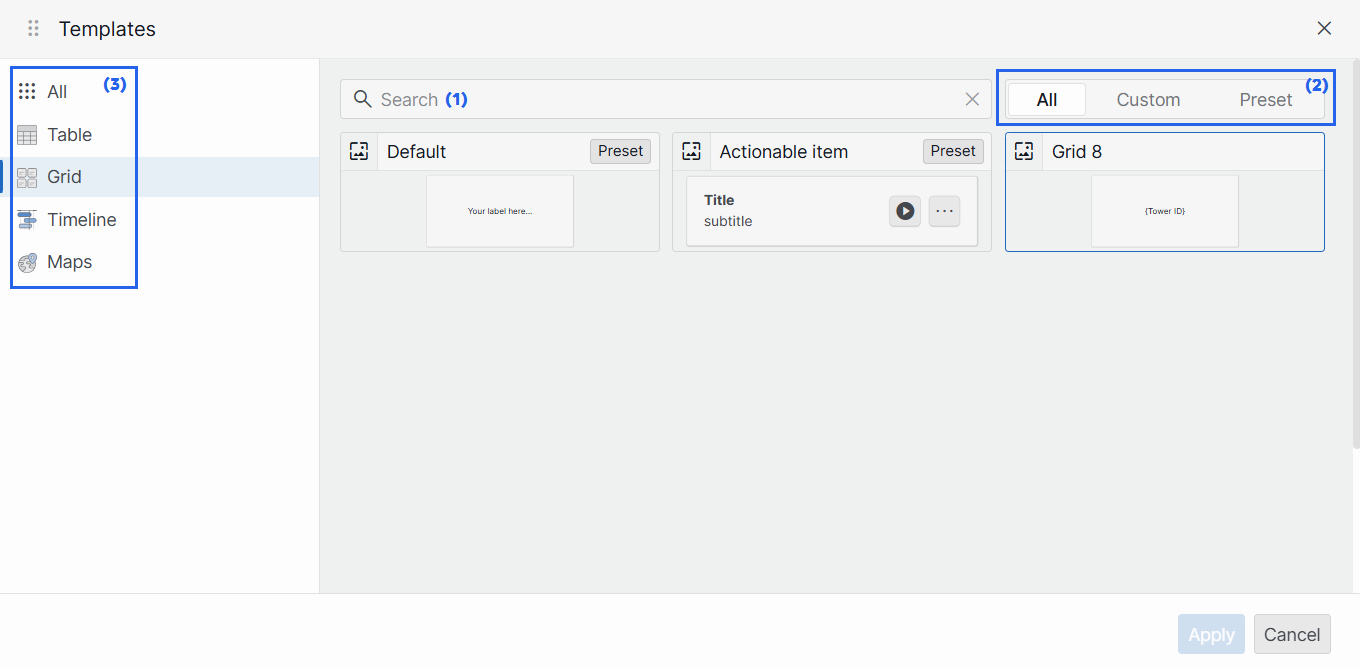
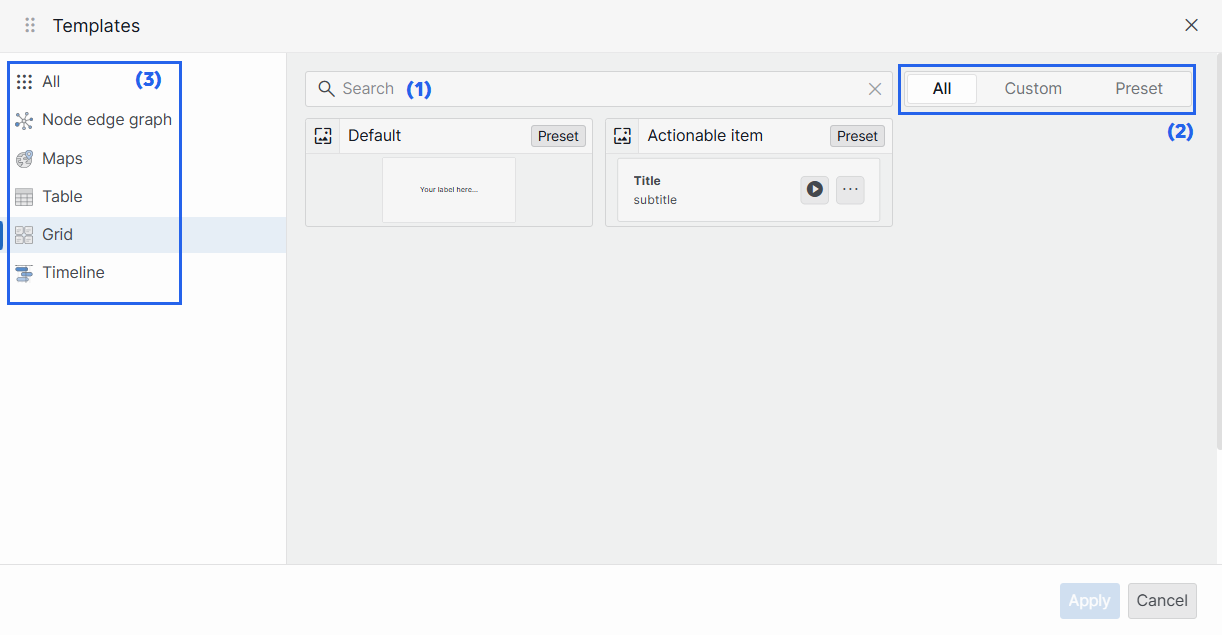
RN 44809

diff --git a/dataminer/Functions/Dashboards_and_Low_Code_Apps/Visualizations/Available_visualizations/Other/Node_edge_graph.md b/dataminer/Functions/Dashboards_and_Low_Code_Apps/Visualizations/Available_visualizations/Other/Node_edge_graph.md
@@ -185,12 +185,12 @@ The node edge graph component supports showing multiple layers. The following *I
 | Nodes | Base node | Node name | This name is not displayed in the component itself, and is only intended to clarify the configuration. |
 | Nodes | Base node | Label | Select the column to use as the label for the node. |
 | Nodes | Base node | Shape | Select a different shape in the dropdown box to customize the node shape. By default, no shape is used. You can also select *Custom* in the dropdown box in order to get additional options that allow you to create a fully customized shape instead of one of the available presets. Click the circle to the right of the dropdown box to select a custom color for the shape. |
-| Nodes | Base node | Visual | Available from DataMiner 10.3.0 [CU15]/10.4.0 [CU3]/10.4.6 onwards<!--RN 39417-->. Choose whether to show an icon or custom image within the node shape. |
+| Nodes | Base node | Visual | Available from DataMiner 10.3.0 [CU15]/10.4.0 [CU3]/10.4.6 onwards<!--RN 39417-->. Choose whether to show an icon, custom image, or use the Template Editor. See [Customizing nodes](#customizing-nodes). |
 | Nodes | Base node | Icon | Select a different icon from the dropdown box to customize the icon shown within the node shape. Click the circle to the right of the box to select a custom color. From DataMiner 10.3.0 [CU15]/10.4.0 [CU3]/10.4.6 onwards<!--RN 39417-->, this setting is only available if the *Visual* setting is set to *Icon*. |
 | Nodes | Base node | Image | Only available if the *Visual* setting is set to *Image*. Enter a custom image link. |
 | Nodes | Base node | Size | From DataMiner 10.3.0 [CU15]/10.4.0 [CU3]/10.4.6 onwards<!--RN 39417-->, use the slider to adjust the size of the node, with a minimum of 1 px and a maximum of 100 px (default: 48 px). Prior to DataMiner 10.3.0 [CU15]/10.4.0 [CU3]/10.4.6, select whether the node should be small, medium-sized, or large. |
 | Nodes | Base node | Weight | A number indicating the relative importance of the node. The higher the number, the more important the node, which determines where it is displayed in the graph (depending on the layout settings). |
-| Nodes | Base node | Enable tooltip | Available from DataMiner 10.3.0 [CU15]/10.4.0 [CU3]/10.4.6 onwards<!--RN 39417-->. This setting is only available when the parameter *showAdvancedSettings=true* is added to the URL. When this option is enabled, a tooltip is shown when the mouse pointer hovers over a node. This setting is enabled by default. |
+| Nodes | Base node | Enable tooltip | Available from DataMiner 10.3.0 [CU15]/10.4.0 [CU3]/10.4.6 onwards<!--RN 39417-->. This setting is only available when the parameter *showAdvancedSettings=true* is added to the URL. When this option is enabled, a tooltip is shown when the mouse pointer hovers over a node. This setting is enabled by default. From DataMiner 10.5.0 [CU13]/10.6.0 [CU1]/10.6.4 onwards<--RN 44809-->, nodes using templates do not support this setting, as tooltip content is defined in the template. |
 | Nodes | Base node | Metric | Available from DataMiner 10.5.0 [CU11]/10.6.2 onwards<!--RN 44218-->. Configure how the node label is displayed. You can hide the label, derive it from conditional coloring, or select a custom column to display as the label. See [Configuring node and edge labels](#configuring-node-and-edge-labels). |
 | Nodes | Base node | Show metric | Available from DataMiner 10.3.0 [CU15]/10.4.0 [CU3]/10.4.6<!--RN 39417--> up to DataMiner 10.5.0 [CU10]/10.6.1<!--RN 44218-->, when the parameter *showAdvancedSettings=true* is added to the URL. When this option is enabled, the metric that determines the conditional color of the node will not be displayed underneath the node. |
 | Nodes | Base node | Actions | Select *Add action* to configure an action that is executed when a node is clicked or double-clicked, or when an icon is clicked in the tooltip. See [Adding actions to a node edge graph](#adding-actions-to-a-node-edge-graph). |
@@ -228,6 +228,37 @@ For each node query and edge query, and for any configured node or edge override
 
   - If neither has conditional coloring, the default background color of the node edge graph component is used.
 
+### Customizing nodes
+
+You can **customize the appearance of nodes** in the graph to better represent your data.
+
+1. In the *Settings* pane, navigate to *Identifiers* > *Nodes* > *Base node* > *Visual*.
+
+   ![*Settings* pane displaying *Identifiers* section with *Nodes* subsection expanded, showing the *Base node* > *Visual* options](~/dataminer/images/Node_Edge_Graph_Visual.png)<br>*Node edge graph settings in DataMiner 10.6.4*
+
+1. Choose how you want the node to look:
+
+   - *Image*: Enter the URL of a custom image to display inside the node. Available from DataMiner 10.3.0 [CU15]/10.4.0 [CU3]/10.4.6 onwards.
+
+   - *Icon*: Select an icon from the dropdown list to display inside the node shape (Default: `CircleRing`). Click the circle to the right of the box to select a custom color.
+
+   - *Template*:Use a prebuilt or custom design for more control over the node's appearance. Available from DataMiner 10.5.0 [CU13]/10.6.0 [CU1]/10.6.4 onwards<!--RN 44809-->.
+
+     - ![Edit](~/dataminer/images/Edit_Template.png): Open the Template Editor to edit the node design. See [Using the Template Editor](xref:Template_Editor).
+
+     - ![Browse templates](~/dataminer/images/Browse_Templates.png): Browse available [preset templates](xref:Template_Editor#using-a-preset-template) or [reuse a custom template](xref:Template_Editor#reusing-a-custom-template).
+
+     By default, node templates contain the following pre-configured layers:
+
+     | Layer | Type | Description |
+     | -- | -- | -- |
+     | ![Ellipse layer](~/dataminer/images/Nodes_Template_Layer1.png) | Ellipse | Acts as the background of each node, with conditional formatting for hover and selection. |
+     | ![Ellipse layer 2](~/dataminer/images/Nodes_Template_Layer2.png) | Ellipse | Acts as a visual border by being slightly larger than the background layer, with conditional formatting for hover and selection. |
+
+     This default template ensures that a node is highlighted when hovered over and stands out when selected, with a light-blue background and a blue border.
+
+     This can for instance be useful when the node edge graph's component data (for example, *Components* > *[Page/Panel name]* > *Node edge graph* > *Selected items* > *Tables*) is used in another component. The highlight helps users identify which data is driving the content of the linked component.
+
 ## Adding actions to a node edge graph
 
 When you add a node edge graph to a low-code app, you can configure actions that are executed when a node or edge is clicked or double-clicked, or when an icon is selected in the tooltip that appears when you hover over the node or edge.
@@ -237,6 +268,9 @@ To configure actions:
 1. In the *Component* > *Settings* pane, under the nodes or edges you want to configure actions for, expand the *Actions* section.
 
 1. Click *Add action*.
+
+   > [!NOTE]
+   > If the [*Visual* setting](#customizing-nodes) is set to *Template*, the *Add action* button will not be available. In that case, actions must be defined on shapes within the template itself. See [Customizing layer appearance and behavior](xref:Template_Editor#customizing-layer-appearance-and-behavior).
 
 1. At the top of the action configuration section, specify how the action is triggered:
 

diff --git a/dataminer/Functions/Dashboards_and_Low_Code_Apps/Configuring_components/Template_Editor.md b/dataminer/Functions/Dashboards_and_Low_Code_Apps/Configuring_components/Template_Editor.md
@@ -17,6 +17,7 @@ The Template Editor is currently supported for the following components:
 - [Timeline](xref:DashboardTimeline)
 - [Table](xref:DashboardTable)
 - [Maps](xref:DashboardMaps)
+- [Node edge graph](xref:DashboardNodeEdgeGraph) (from DataMiner 10.5.0 [CU13]/10.6.0 [CU1]/10.6.4 onwards<!--RN 44809-->)
 
 ## Accessing the Template Editor
 
@@ -55,6 +56,16 @@ The way you can access the Template Editor depends on the type of component:
 1. Under the *Layer settings* for a specific layer of the map, click *Edit* ![Edit](~/dataminer/images/Edit_Template.png) in the template section.
 
    These settings will only be available once a set of markers has been added to the component.
+
+### [Node edge graph](#tab/NodeEdgeGraph)
+
+1. Select the node edge graph component and go to the *Settings* pane on the right.
+
+1. In the *Identifiers* section for the nodes, expand the *Base node* subsection.
+
+1. Make sure the *Visual* option is set to *Template*.
+
+1. Click the *Edit* ![Edit](~/dataminer/images/Edit_Template.png) icon.
 
 ***
 
@@ -354,6 +365,16 @@ From DataMiner 10.5.0 [CU10]/10.6.1 onwards<!--RN 44040 + 44123-->, you can star
 
      1. Under the *Layer settings* for a specific layer of the map, click *Browse templates* ![Browse templates](~/dataminer/images/Browse_Templates.png) in the *Template* section.
 
+   - For the **node edge graph** component:
+
+     1. Select the component and go to the *Settings* pane on the right.
+
+     1. In the *Identifiers* section for the nodes, expand the *Base node* subsection.
+
+     1. Make sure the *Visual* option is set to *Template*.
+
+     1. Click the *Browse templates* ![Browse templates](~/dataminer/images/Browse_Templates.png) icon.
+
 1. Select a preset template from the overview. You can:
 
    - (1): Search for a template by name using the search box.
@@ -362,7 +383,7 @@ From DataMiner 10.5.0 [CU10]/10.6.1 onwards<!--RN 44040 + 44123-->, you can star
 
    - (3): Filter the overview by visualization type using the options in the sidebar on the left.
 
-   ![Preset template](~/dataminer/images/Preset_Template.png)<br>*Template browser in DataMiner 10.6.2*
+   ![Preset template](~/dataminer/images/Preset_Template.png)<br>*Template browser in DataMiner 10.6.4*
 
    > [!TIP]
    > You can tell a preset template from a custom template by the *Preset* label in the top-right corner of a template tile.
@@ -411,6 +432,16 @@ If you have already configured at least one other template for a component in th
 
      1. Under the *Layer settings* for a specific layer of the map, click *Browse templates* ![Browse templates](~/dataminer/images/Browse_Templates.png) in the *Template* section.
 
+   - For the **node edge graph** component:
+
+     1. Select the component and go to the *Settings* pane on the right.
+
+     1. In the *Identifiers* section for the nodes, expand the *Base node* subsection.
+
+     1. Make sure the *Visual* option is set to *Template*.
+
+     1. Click the *Browse templates* ![Browse templates](~/dataminer/images/Browse_Templates.png) icon.
+
 1. Select a custom template from the overview. From DataMiner 10.5.0 [CU10]/10.6.1 onwards<!--RN 44123-->, you can:
 
    - (1): Search for a template by name using the search box.
@@ -419,7 +450,7 @@ If you have already configured at least one other template for a component in th
 
    - (3): Filter the overview by visualization type using the options in the sidebar on the left.
 
-   ![Preset template](~/dataminer/images/Preset_Template.png)<br>*Template browser in DataMiner 10.6.2*
+   ![Preset template](~/dataminer/images/Preset_Template.png)<br>*Template browser in DataMiner 10.6.4*
 
 1. Click *Apply* in the lower-right corner of the window.
 
@@ -439,6 +470,6 @@ If you have already configured a template for a component of the same type in th
 
 ***
 
-Keep in mind that when you reuse templates, you may need to **manually update column references**: In a text layer of a template, you can enter a column name surrounded by curly brackets (e.g., {CustomerName}) to insert the corresponding cell value into your text. However, when you reuse a template, these linked columns will not be automatically updated. If the component you are applying the template to has columns with different column IDs, you will need to manually update the column reference in the template to ensure the correct data is displayed.
+Keep in mind that when you reuse templates, you may need to **manually update column references**: In a text layer of a template, you can enter a column name surrounded by curly brackets (for example, {CustomerName}) to insert the corresponding cell value into your text. However, when you reuse a template, these linked columns will not be automatically updated. If the component you are applying the template to has columns with different column IDs, you will need to manually update the column reference in the template to ensure the correct data is displayed.
 
-![Update template](~/dataminer/images/CustomerName.gif)<br>*Template Editor in DataMiner 10.5.4*
+![Update template](~/dataminer/images/CustomerName.gif)<br>*Template Editor in DataMiner 10.6.4*

diff --git a/release-notes/Web_apps/Web_apps_Feature_Release_10.6/Web_apps_Feature_Release_10.6.4.md b/release-notes/Web_apps/Web_apps_Feature_Release_10.6/Web_apps_Feature_Release_10.6.4.md
@@ -62,19 +62,18 @@ The `ClientTimeZone` (`DMAAutomationScriptOptionClientTimeZone`) data type has t
 > [!IMPORTANT]
 > This feature will only work in conjunction with DataMiner server version 10.7.0/10.6.4 or newer. See [Automation: Time zone of the client can now be passed to the automation script that is executed [ID 44742]](xref:General_Feature_Release_10.6.4#automation-time-zone-of-the-client-can-now-be-passed-to-the-automation-script-that-is-executed-id-44742).
 
-#### Dashboards/Low-Code Apps - Node edge graph component: Node types [ID 44809]
+#### Dashboards/Low-Code Apps - Node edge graph component: Customizing nodes using templates [ID 44809]
 
 <!-- MR 10.5.0 [CU13] / 10.6.0 [CU1] - FR 10.6.4 -->
 
-When configuring a newly-added *Node edge graph* component, it is now possible to define three types of node:
+The *Node edge graph* component now supports node templates. This allows you to customize the appearance of nodes using the Template Editor or by applying preset templates as a starting point.
 
-- Icon
-- Image
-- Template
+In the *Settings* pane, navigate to *Identifiers* > *Nodes* > *Base node* > *Visual*. In this section, you can now select *Template*. From there, you can either click the *Edit* icon to open the Template Editor or the *Browse templates* icon to select a preset or custom template.
 
 > [!NOTE]
-> Nodes of type *Template* do not support showing a tooltip or metric, as you can define that information in the template itself.
-> Also, nodes of type *Template* do not support configuring actions, as you can define actions on shapes in the template itself.
+> When *Visual* is set to *Template*, nodes no longer support showing a tooltip or metric, as this information can be defined in the template itself.
+>
+> In addition, actions can no longer be configured via the *Actions* section in the *Settings* pane, as actions can instead be defined on shapes in the template itself.
 
 ## Changes
 
